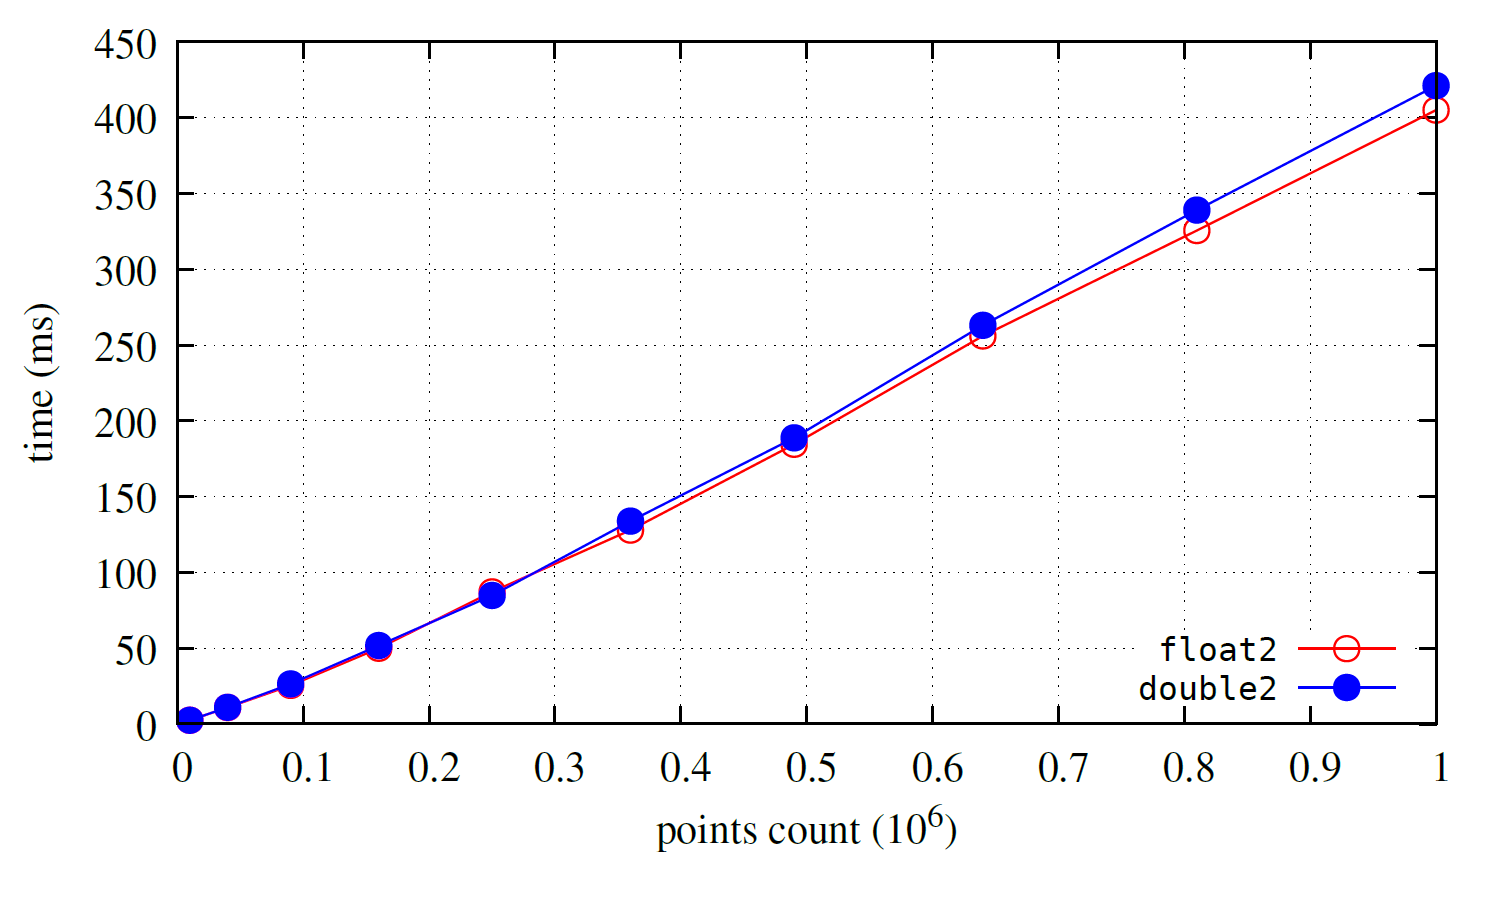
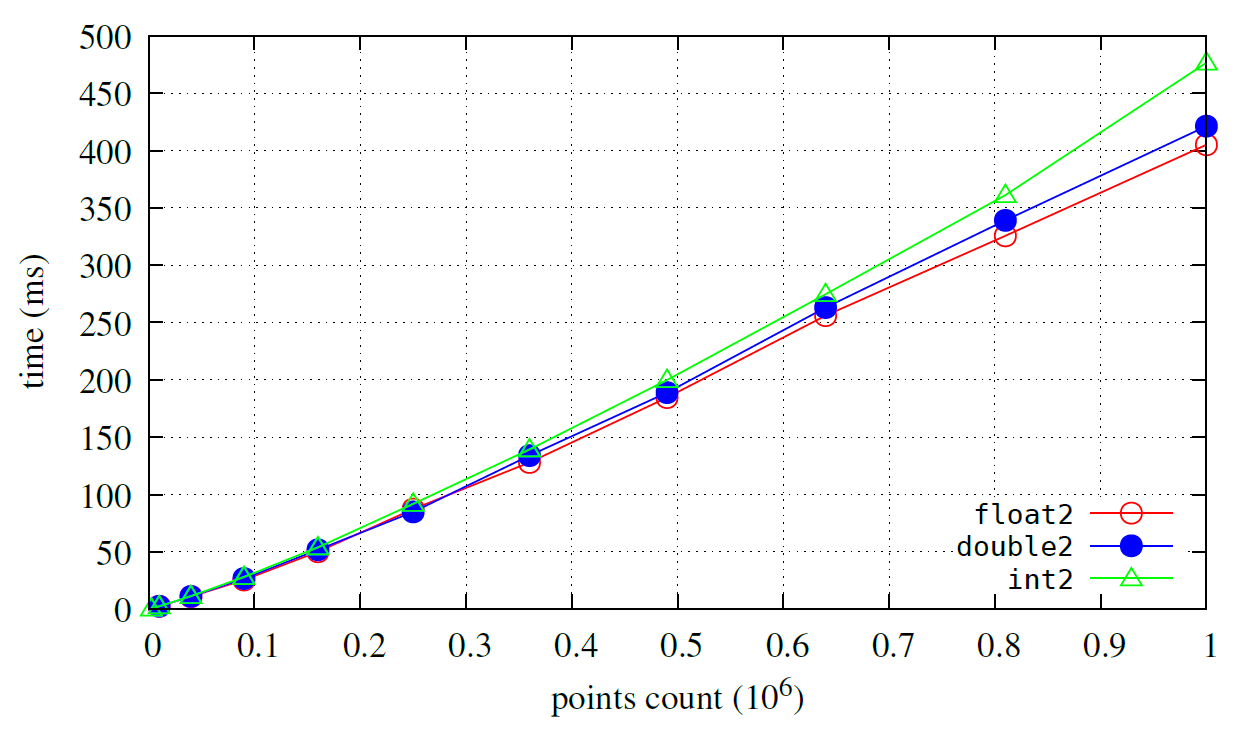
test: add int2 benchmark

diff --git a/Tests/TriangulatorBenchmarkTests.cs b/Tests/TriangulatorBenchmarkTests.cs
@@ -73,7 +73,7 @@ namespace andywiecko.BurstTriangulator.Editor.Tests
         }
 
         private static readonly TestCaseData[] delaunayBenchmarkDouble2TestData = delaunayBenchmarkTestData
-            .Select(i => new TestCaseData(i.Arguments) {  TestName = i.TestName + " (double2)" })
+            .Select(i => new TestCaseData(i.Arguments) { TestName = i.TestName + " (double2)" })
             .ToArray();
 
         [Test, TestCaseSource(nameof(delaunayBenchmarkDouble2TestData))]
@@ -115,6 +115,48 @@ namespace andywiecko.BurstTriangulator.Editor.Tests
             Unity.Jobs.LowLevel.Unsafe.JobsUtility.JobDebuggerEnabled = debuggerInitialValue;
         }
 
+        private static readonly TestCaseData[] delaunayBenchmarkInt2TestData = delaunayBenchmarkTestData
+            .Select(i => new TestCaseData(i.Arguments) { TestName = i.TestName + " (int2)" })
+            .ToArray();
+
+        [Test, TestCaseSource(nameof(delaunayBenchmarkInt2TestData))]
+        public void DelaunayBenchmarkInt2Test((int count, int N) input)
+        {
+            var (count, N) = input;
+            var debuggerInitialValue = Unity.Jobs.LowLevel.Unsafe.JobsUtility.JobDebuggerEnabled;
+            Unity.Jobs.LowLevel.Unsafe.JobsUtility.JobDebuggerEnabled = false;
+
+            var points = new List<int2>(count * count);
+            for (int i = 0; i < count; i++)
+            {
+                for (int j = 0; j < count; j++)
+                {
+                    var p = math.int2(i, j);
+                    points.Add(p);
+                }
+            }
+
+            using var positions = new NativeArray<int2>(points.ToArray(), Allocator.Persistent);
+
+            var stopwatch = Stopwatch.StartNew();
+            using var triangulator = new Triangulator<int2>(capacity: count * count, Allocator.Persistent)
+            {
+                Input = { Positions = positions },
+                Settings = {
+                    RefineMesh = false,
+                    RestoreBoundary = false,
+                    ValidateInput = false,
+                },
+            };
+
+            var dependencies = default(JobHandle);
+            for (int i = 0; i < N; i++) dependencies = triangulator.Schedule(dependencies);
+            dependencies.Complete();
+            stopwatch.Stop();
+            UnityEngine.Debug.Log($"{count * count} {stopwatch.Elapsed.TotalMilliseconds / N}");
+
+            Unity.Jobs.LowLevel.Unsafe.JobsUtility.JobDebuggerEnabled = debuggerInitialValue;
+        }
 
         private static readonly TestCaseData[] constraintBenchmarkTestData = Enumerable
             .Range(0, 80)
